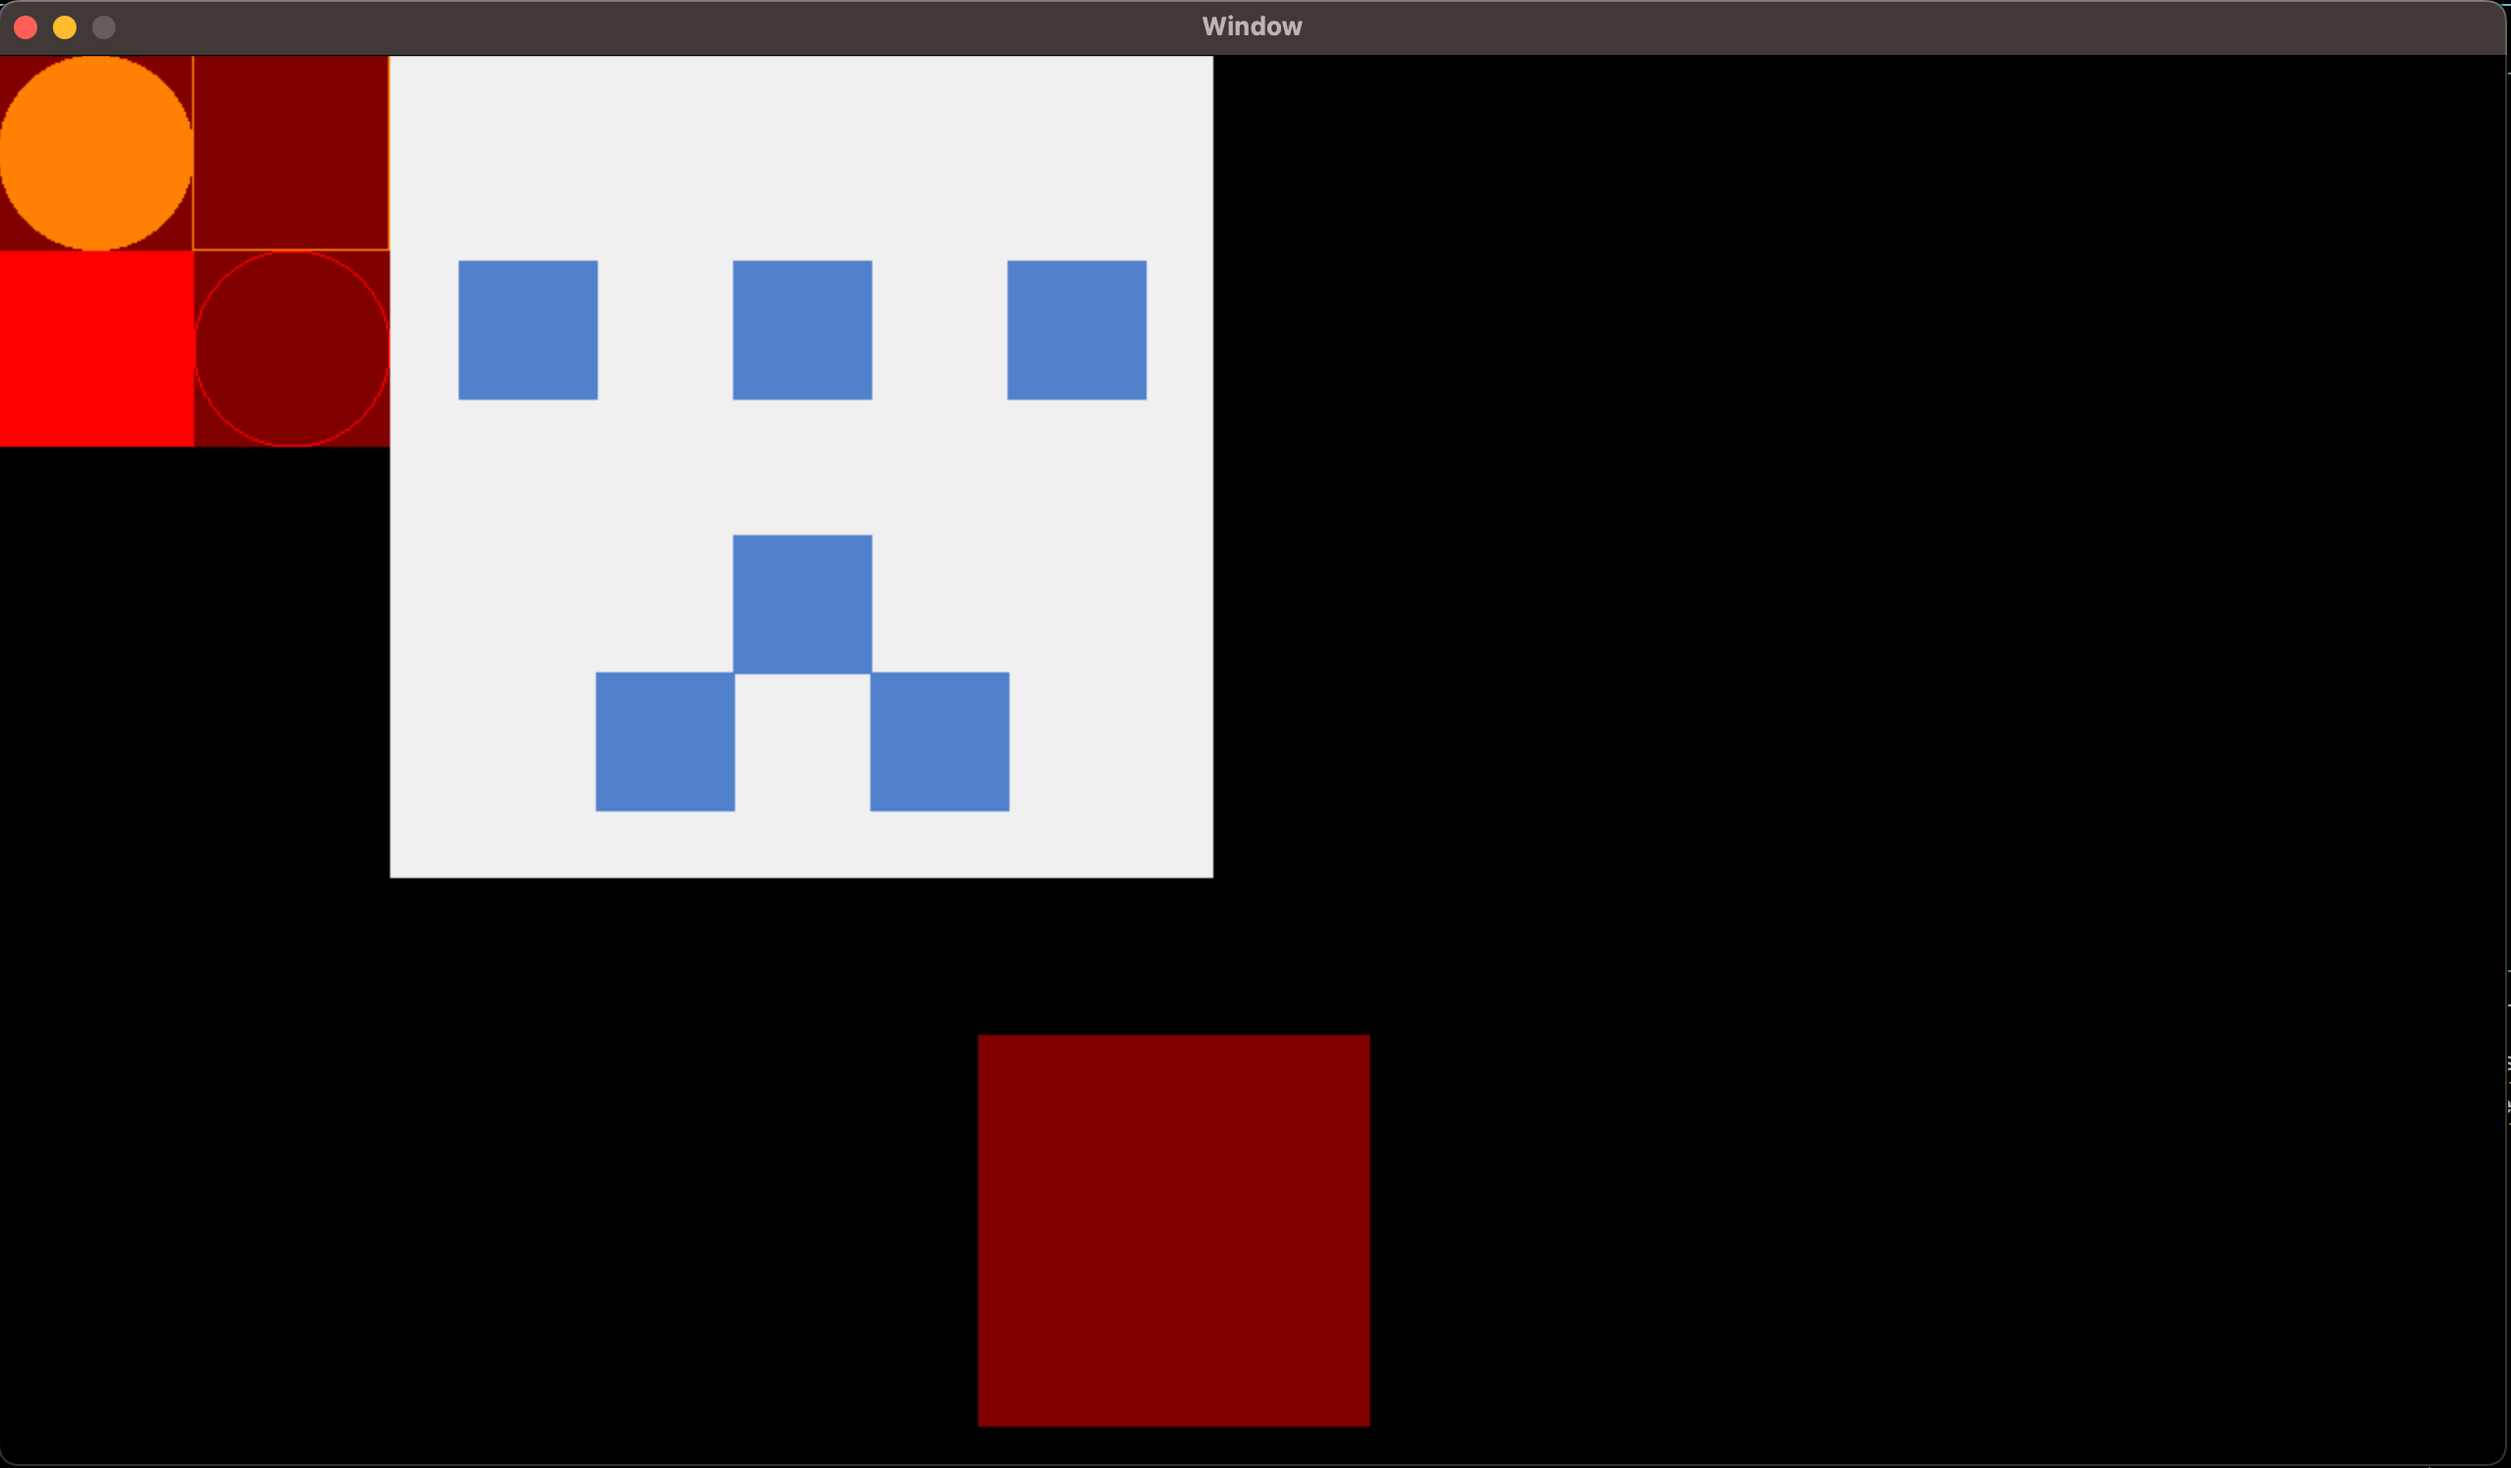
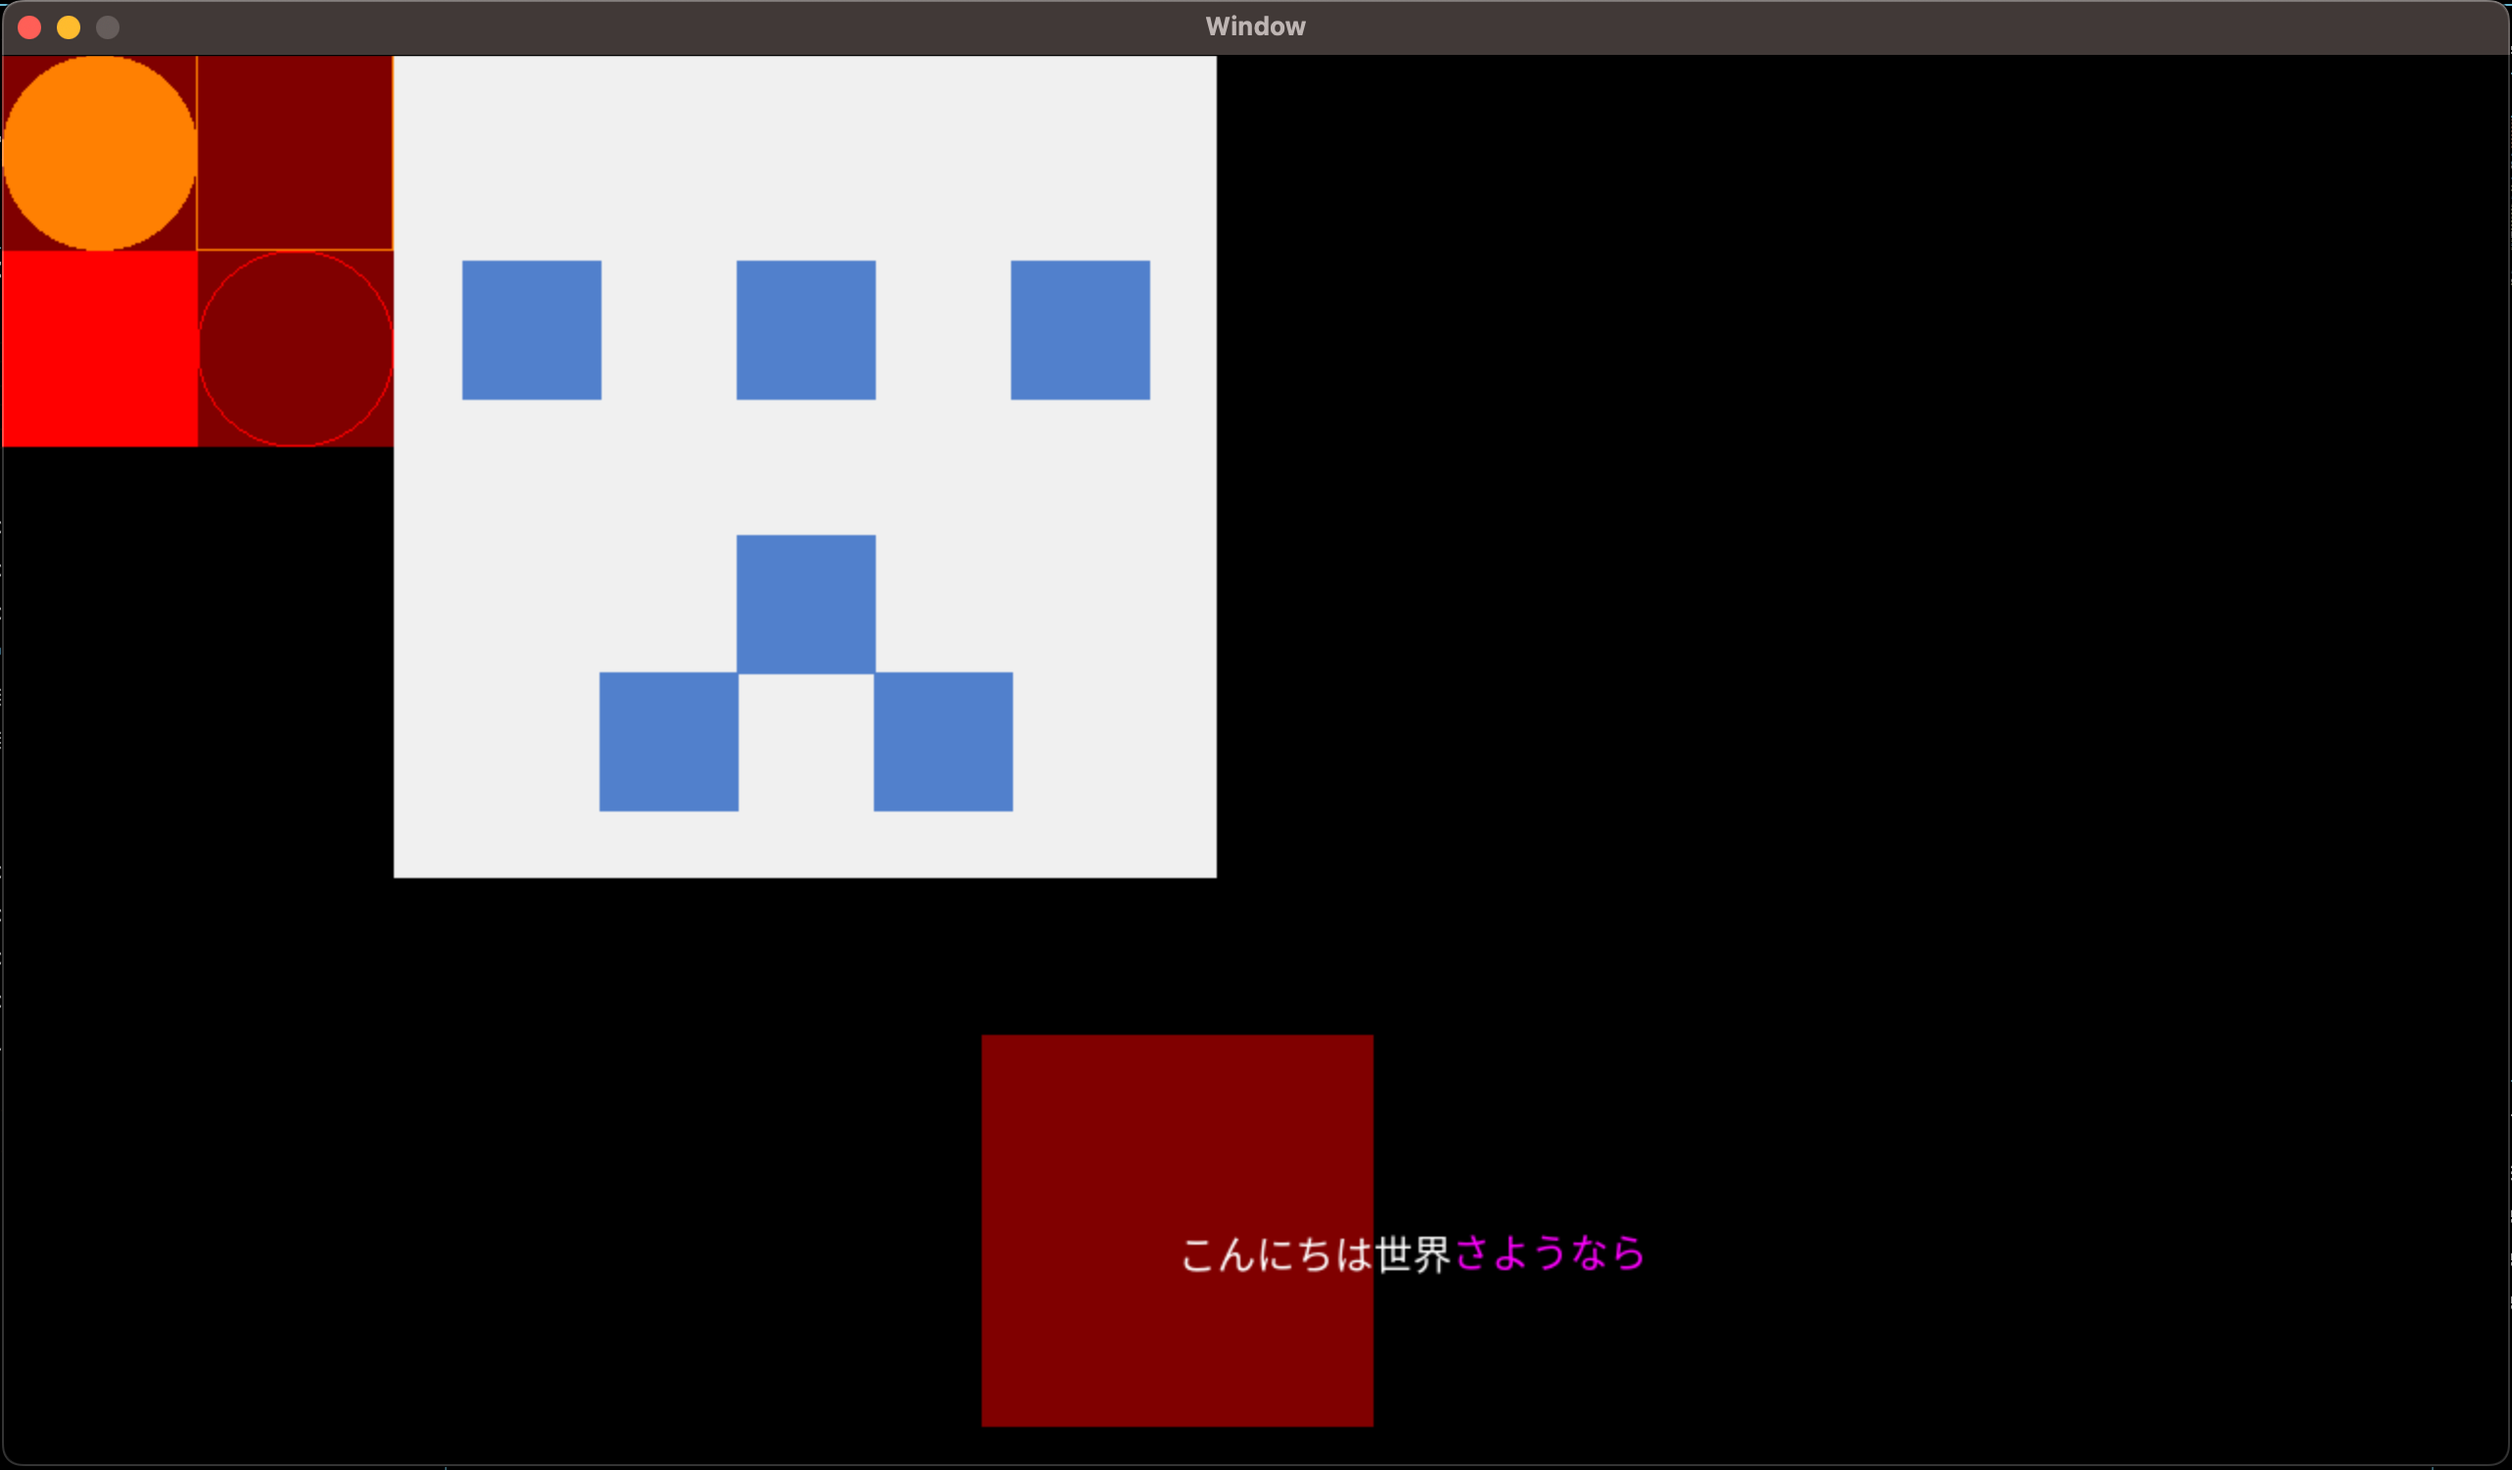
Update: readme更新

diff --git a/readme.md b/readme.md
@@ -16,39 +16,49 @@ cmake . -DAG_USE_METAL=ON
 # example
 agは簡単な2D描画しかサポートしていません。
 ````.cpp
-#include <ag/agOne.hpp>
+#include <ag/Engine.hpp>
+#include <ag/easy/App.hpp>
+#include <ag/graphics/FontFactory.hpp>
+#include <ag/graphics/FontMap.hpp>
+#include <ag/graphics/IGraphicsDevice.hpp>
+#include <ag/graphics/IGraphicsDriver.hpp>
+#include <ag/graphics/ITexture.hpp>
+#include <ag/graphics/ImageLoader.hpp>
+
+class MyApp : public ag::easy::App {
+public:
+    MyApp(int argc, char* argv[])
+        : App(argc, argv)
+    {
+    }
+    void start(const std::shared_ptr<ag::Window>& w, const std::shared_ptr<ag::Renderer>& r)
+    {
+        r->setFontMap(loadFontMap("testdata/fonts/NotoSansJP-Regular.otf"));
+        loadTexture("testdata/textures/ghicon.png");
+    }
+    void update(const std::shared_ptr<ag::Window>& w, const std::shared_ptr<ag::Renderer>& r)
+    {
+        r->fillCircle(glm::vec2(), glm::vec2(100, 100), glm::vec4(1, 1, 0, 1));
+        r->fillRect(glm::vec2(0, 100), glm::vec2(100, 100), glm::vec4(1, 0, 0, 1));
+        r->drawRect(glm::vec2(100, 0), glm::vec2(100, 100), glm::vec4(1, 1, 0, 1));
+        r->drawCircle(glm::vec2(100, 100), glm::vec2(100, 100), glm::vec4(1, 0, 0, 1));
+        r->drawTexture(glm::vec2(200, 0), loadTexture("testdata/textures/ghicon.png"), glm::vec4(1, 1, 1, 1));
+        r->fillRect(glm::vec2(0, 0), glm::vec2(200, 200), glm::vec4(1, 0, 0, 0.5f));
+        r->fillRect(glm::vec2(500, 500), glm::vec2(200, 200), glm::vec4(1, 0, 0, 0.5f));
+
+        glm::vec2 helloTextPos = glm::vec2(600, 600);
+        r->drawString(helloTextPos, 20, u"こんにちは世界", glm::vec4(1, 1, 1, 1));
+        helloTextPos.x += r->measureString(20, u"こんにちは世界").x;
+        r->drawString(helloTextPos, 20, u"さようなら", glm::vec4(1, 0, 1, 1));
+    }
+
+private:
+};
 
 int main(int argc, char* argv[])
 {
-    auto engine = ag::Engine::getInstance()->startup(argc, argv);
-    auto looper = engine->getLooper();
-    ag::Window::create(1280, 720, false, "Window");
-    ag::Renderer* renderer = nullptr;
-    ag::Image img;
-    ag::ImageLoader::load("testdata/ghicon.png", img);
-    ag::ITexture::Instance texture = nullptr;
-    while (looper->nextLoop()) {
-        while (looper->nextWindow()) {
-            auto window = looper->acquire();
-            if (!texture) {
-                texture = engine->getGraphicsDriver()->getGraphicsDevice()->newTexture(img.width, img.height, img.getData());
-            }
-            if (!renderer) {
-                renderer = new ag::Renderer();
-            }
-            renderer->resize(window->getSize());
-            renderer->fillCircle(glm::vec2(), glm::vec2(100, 100), glm::vec4(1, 1, 0, 1));
-            renderer->fillRect(glm::vec2(0, 100), glm::vec2(100, 100), glm::vec4(1, 0, 0, 1));
-            renderer->drawRect(glm::vec2(100, 0), glm::vec2(100, 100), glm::vec4(1, 1, 0, 1));
-            renderer->drawCircle(glm::vec2(100, 100), glm::vec2(100, 100), glm::vec4(1, 0, 0, 1));
-            renderer->drawTexture(glm::vec2(200, 0), texture);
-            renderer->fillRect(glm::vec2(0, 0), glm::vec2(200, 200), glm::vec4(1, 0, 0, 0.5f));
-            renderer->fillRect(glm::vec2(500, 500), glm::vec2(200, 200), glm::vec4(1, 0, 0, 0.5f));
-            looper->release();
-        }
-    }
-    delete renderer;
-    return 0;
+    MyApp app(argc, argv);
+    return app.main(1280, 720, false, "Window");
 }
 ````
 
